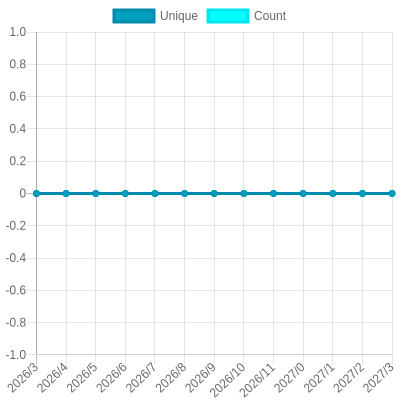
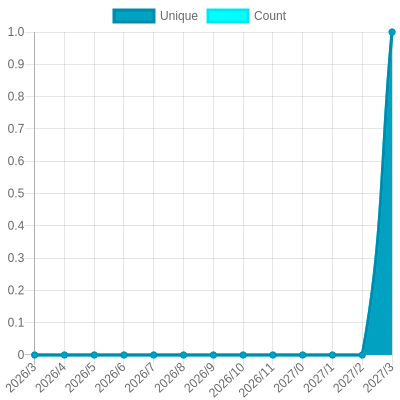
Update views

diff --git a/readme/1011849454/year.md b/readme/1011849454/year.md
@@ -23,10 +23,10 @@
 			<code>2026/4/1</code>
 		</td>
 		<td>
-			<code>0</code>
+			<code>1</code>
 		</td>
 		<td>
-			<code>0</code>
+			<code>1</code>
 		</td>
 	</tr>
 	<tr>
@@ -164,7 +164,7 @@
 </table>
 
 </details>
-<small><i>Last updated on 2026/4/21 7:28 AM UTC</i></small>
+<small><i>Last updated on 2026/4/21 1:15 PM UTC</i></small>
 
 ## ✂Copy and 📋 Paste
 ### SVG Badge

diff --git a/README.md b/README.md
@@ -69,7 +69,7 @@ The project created and maintained by [gayanvoice](https://github.com/gayanvoice
 	</tr>
 </table>
 
-<small><i>Last updated on 2026/4/21 7:28 AM UTC</i></small>
+<small><i>Last updated on 2026/4/21 1:15 PM UTC</i></small>
 
 ## ✂Copy and 📋 Paste
 ### Total Views Badge

diff --git a/readme/792923366/year.md b/readme/792923366/year.md
@@ -164,7 +164,7 @@
 </table>
 
 </details>
-<small><i>Last updated on 2026/4/21 7:28 AM UTC</i></small>
+<small><i>Last updated on 2026/4/21 1:15 PM UTC</i></small>
 
 ## ✂Copy and 📋 Paste
 ### SVG Badge

diff --git a/readme/801326864/year.md b/readme/801326864/year.md
@@ -164,7 +164,7 @@
 </table>
 
 </details>
-<small><i>Last updated on 2026/4/21 7:28 AM UTC</i></small>
+<small><i>Last updated on 2026/4/21 1:15 PM UTC</i></small>
 
 ## ✂Copy and 📋 Paste
 ### SVG Badge
